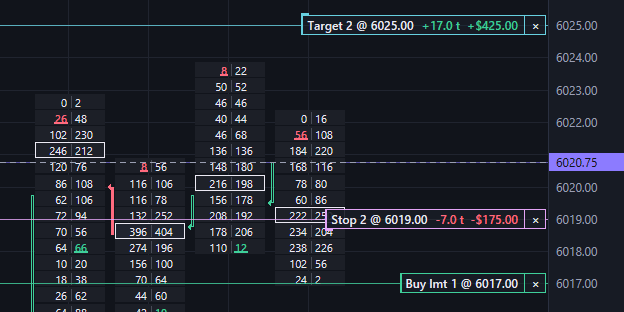
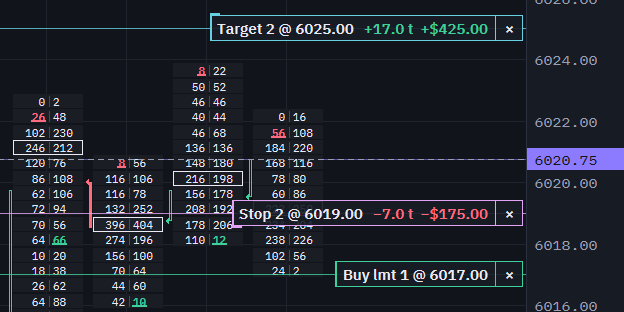
Refresh for v0.3.30: data sources, new features, roadmap, screenshots
- Version-neutral fallbacks: "Download" / "Latest release", download
  cards link to the releases page; the script still fills in the tag
  and per-OS assets
- Data sources: Databento CME futures (your own key), Coinbase and
  Kraken public crypto, the simulated futures feed and replays
- Three cards: drawings and the ruler, your own level sources,
  workspaces and pop-out windows; older stored days load on demand
- Roadmap matches lines ROADMAP.md (Schwab SPY/QQQ, strategies, Sierra
  Chart DTC execution next; CQG dropped for "more brokers")
- New screenshots from v0.3.30 screenshot mode on synthetic data
  (synth_session, paper account, demo levels); OG image from the hero
- Meta description, alt text; code chips wrap on phones

diff --git a/index.html b/index.html
@@ -4,7 +4,7 @@
 <meta charset="utf-8">
 <meta name="viewport" content="width=device-width,initial-scale=1">
 <title>Lines Terminal</title>
-<meta name="description" content="A native futures charting, DOM and trading terminal. Fast, exact, and built for discretionary and prop-firm traders. Pre-alpha, paper trading only.">
+<meta name="description" content="A native futures charting, DOM and paper-trading terminal for discretionary and prop-firm traders. Live CME data with your own Databento key, public crypto feeds and replays. Fast, exact, built in Rust. Pre-alpha, paper trading only.">
 <meta name="theme-color" content="#11141b">
 <meta name="color-scheme" content="dark">
 <link rel="canonical" href="https://linesterminal.com/">
@@ -19,7 +19,7 @@
 <meta property="og:image" content="https://linesterminal.com/assets/og.png">
 <meta property="og:image:width" content="1200">
 <meta property="og:image:height" content="630">
-<meta property="og:image:alt" content="Lines Terminal footprint chart with order lines beside a DOM and time and sales">
+<meta property="og:image:alt" content="Lines Terminal footprint chart with paper order lines beside the DOM and time and sales">
 <meta name="twitter:card" content="summary_large_image">
 <meta name="twitter:title" content="Lines Terminal: the futures terminal that keeps up">
 <meta name="twitter:description" content="Native charts, DOM and order flow for discretionary and prop-firm traders. Built in Rust. Pre-alpha, paper trading only.">
@@ -135,6 +135,7 @@ footer .sp{flex:1}
   .sub{margin-bottom:32px}
   .grid,.dl,.roadmap,.two{grid-template-columns:1fr}
   .two{gap:32px;margin-top:32px}
+  .note .k{white-space:normal;overflow-wrap:anywhere}
   footer{margin-top:96px}
   footer .sp{display:none}
 }
@@ -161,7 +162,7 @@ footer .sp{flex:1}
   <h1>The futures terminal that <em>keeps up</em>.</h1>
   <p class="lede">Native charts, DOM and order flow for discretionary and prop-firm traders. Built in Rust: exact prices, nothing dropped, and nothing between your click and your order.</p>
   <div class="cta">
-   <a class="btn primary" href="#download">Download v0.3.2</a>
+   <a class="btn primary" href="#download">Download</a>
    <a class="btn ghost" href="https://github.com/anaremore/lines">View source</a>
   </div>
   <div class="small">Windows · macOS · Linux · free under FSL-1.1</div>
@@ -170,7 +171,7 @@ footer .sp{flex:1}
     <source media="(max-width: 640px)" type="image/webp" srcset="/assets/hero-mobile.webp" width="624" height="312">
     <source media="(max-width: 640px)" srcset="/assets/hero-mobile.png" width="624" height="312">
     <source type="image/webp" srcset="/assets/hero.webp" width="1600" height="900">
-    <img src="/assets/hero.png" width="1600" height="900" fetchpriority="high" decoding="async" alt="Lines Terminal: footprint chart with a long position, stop and target order lines, beside a DOM and time and sales">
+    <img src="/assets/hero.png" width="1600" height="900" fetchpriority="high" decoding="async" alt="Lines Terminal on synthetic data: a footprint chart with a long paper position, its stop and target order lines and a working buy limit, beside the DOM with its trade panel and time and sales">
    </picture>
   </a>
   <div class="small tap">Tap the image for the full screenshot</div>
@@ -179,7 +180,7 @@ footer .sp{flex:1}
  <section id="features" aria-labelledby="features-h"><div class="wrap">
   <p class="eyebrow">Features</p>
   <h2 id="features-h">Built for the moment you click</h2>
-  <p class="sub">Everything here works today, on mock, replay and live crypto feeds.</p>
+  <p class="sub">Everything here works today in the free public build: live CME futures with your own Databento key, live Coinbase and Kraken crypto, a simulated futures feed and replays.</p>
   <div class="grid">
    <div class="card">
     <svg viewBox="0 0 24 24" fill="none" stroke="currentColor" stroke-width="1.6" stroke-linecap="round" stroke-linejoin="round" aria-hidden="true"><path d="M4 4v16h16"/><path d="M7 15l4-4 3 3 6-7"/><path d="M14 7h6"/></svg>
@@ -189,7 +190,7 @@ footer .sp{flex:1}
     <h3>DOM that holds still</h3><p>A fixed-row ladder with market buttons, brackets, and a price trail. The layout never shifts under your pointer.</p></div>
    <div class="card">
     <svg viewBox="0 0 24 24" fill="none" stroke="currentColor" stroke-width="1.6" stroke-linecap="round" aria-hidden="true"><path d="M6 20v-8"/><path d="M10 20V5"/><path d="M14 20v-6"/><path d="M18 20V9"/></svg>
-    <h3>Order flow</h3><p>Footprint, volume profile, cumulative delta and VWAP, rebuilt from stored trades the moment you open the app.</p></div>
+    <h3>Order flow</h3><p>Footprint, volume profile, cumulative delta and VWAP, rebuilt from stored trades the moment you open the app. Scroll back and older stored days load on demand.</p></div>
    <div class="card">
     <svg viewBox="0 0 24 24" fill="none" stroke="currentColor" stroke-width="1.6" stroke-linecap="round" stroke-linejoin="round" aria-hidden="true"><circle cx="12" cy="12" r="8"/><path d="M12 8v4l3 2"/></svg>
     <h3>Any bar you want</h3><p>Time, tick, volume, range and seconds bars. Type <span class="k">500t</span>, <span class="k">10r</span> or <span class="k">5</span> and press Enter.</p></div>
@@ -199,23 +200,32 @@ footer .sp{flex:1}
    <div class="card">
     <svg viewBox="0 0 24 24" fill="none" stroke="currentColor" stroke-width="1.6" stroke-linecap="round" stroke-linejoin="round" aria-hidden="true"><path d="M6 4h10a3 3 0 0 1 3 3v13H8a2 2 0 0 1-2-2z"/><path d="M6 18a2 2 0 0 1 2-2h11"/><path d="M10 8h5"/></svg>
     <h3>Journal and strategies</h3><p>Every round trip with MAE/MFE and tags. Strategies run on paper through the same rules as your clicks.</p></div>
+   <div class="card">
+    <svg viewBox="0 0 24 24" fill="none" stroke="currentColor" stroke-width="1.6" stroke-linecap="round" stroke-linejoin="round" aria-hidden="true"><path d="M4 20L20 4"/><path d="M4 9h7"/><path d="M14 15h6"/><path d="M15 19l2 2 4-4"/></svg>
+    <h3>Drawings and a ruler</h3><p>Lines, rays, trend lines, zones and notes, saved per product and shared by every chart of it. <span class="k">Shift</span>+drag measures ticks, P&amp;L and time.</p></div>
+   <div class="card">
+    <svg viewBox="0 0 24 24" fill="none" stroke="currentColor" stroke-width="1.6" stroke-linecap="round" aria-hidden="true"><path d="M3 7h12"/><path d="M3 12h18"/><path d="M3 17h8"/><circle cx="17" cy="7" r="2"/><circle cx="13" cy="17" r="2"/></svg>
+    <h3>Your own levels</h3><p>Plug in your own level sources. Lines and zones draw on the chart, can end where price reached them, and are recorded and replayed with the market data.</p></div>
+   <div class="card">
+    <svg viewBox="0 0 24 24" fill="none" stroke="currentColor" stroke-width="1.6" stroke-linejoin="round" aria-hidden="true"><rect x="3" y="4" width="13" height="11" rx="1.5"/><path d="M8 19h11.5a1.5 1.5 0 0 0 1.5-1.5V9"/><path d="M3 8h13"/></svg>
+    <h3>Workspaces and windows</h3><p>Grids, tabs and link groups. Pop any pane out into its own window on another monitor. Everything is saved and restored.</p></div>
   </div>
   <div class="two">
-   <figure><div class="shot"><picture><source type="image/webp" srcset="/assets/tick-chart.webp"><img src="/assets/tick-chart.png" width="1200" height="700" loading="lazy" decoding="async" alt="A 500-tick candlestick chart with VWAP bands"></picture></div><figcaption>Tick charts from counted trades</figcaption></figure>
-   <figure><div class="shot"><picture><source type="image/webp" srcset="/assets/light.webp"><img src="/assets/light.png" width="1600" height="900" loading="lazy" decoding="async" alt="Lines in the light theme: a chart with order lines beside the DOM"></picture></div><figcaption>Light, dark and colorblind palettes, all WCAG AA</figcaption></figure>
+   <figure><div class="shot"><picture><source type="image/webp" srcset="/assets/tick-chart.webp"><img src="/assets/tick-chart.png" width="1200" height="700" loading="lazy" decoding="async" alt="A 500-tick candlestick chart with VWAP bands, synthetic external levels and zones, and a ruler measurement"></picture></div><figcaption>Tick chart with VWAP bands, levels and the ruler</figcaption></figure>
+   <figure><div class="shot"><picture><source type="image/webp" srcset="/assets/light.webp"><img src="/assets/light.png" width="1600" height="900" loading="lazy" decoding="async" alt="Lines in the light theme: a 5-minute chart with a split Volume pane and paper order lines, beside the DOM and the Positions pane"></picture></div><figcaption>Light, dark and colorblind palettes, all WCAG AA</figcaption></figure>
   </div>
  </div></section>
 
  <section id="download" aria-labelledby="download-h"><div class="wrap">
   <p class="eyebrow">Download</p>
   <h2 id="download-h">Get Lines</h2>
-  <p class="sub" id="ver">Latest release: v0.3.2</p>
+  <p class="sub" id="ver">Latest release</p>
   <div class="dl">
-   <a class="os" href="https://github.com/anaremore/lines/releases/download/v0.3.2/lines-v0.3.2-windows-x64.zip"><div><b>Windows</b><span>x64 · .zip</span></div><svg viewBox="0 0 24 24" fill="none" stroke="currentColor" stroke-width="1.6" stroke-linecap="round" stroke-linejoin="round" aria-hidden="true"><path d="M12 4v12"/><path d="M7 11l5 5 5-5"/><path d="M5 20h14"/></svg></a>
-   <a class="os" href="https://github.com/anaremore/lines/releases/download/v0.3.2/lines-v0.3.2-macos-arm64.zip"><div><b>macOS</b><span>Apple silicon · .zip</span></div><svg viewBox="0 0 24 24" fill="none" stroke="currentColor" stroke-width="1.6" stroke-linecap="round" stroke-linejoin="round" aria-hidden="true"><path d="M12 4v12"/><path d="M7 11l5 5 5-5"/><path d="M5 20h14"/></svg></a>
-   <a class="os" href="https://github.com/anaremore/lines/releases/download/v0.3.2/lines-v0.3.2-linux-x64.tar.gz"><div><b>Linux</b><span>x64 · .tar.gz</span></div><svg viewBox="0 0 24 24" fill="none" stroke="currentColor" stroke-width="1.6" stroke-linecap="round" stroke-linejoin="round" aria-hidden="true"><path d="M12 4v12"/><path d="M7 11l5 5 5-5"/><path d="M5 20h14"/></svg></a>
+   <a class="os" href="https://github.com/anaremore/lines/releases/latest"><div><b>Windows</b><span>x64 · .zip</span></div><svg viewBox="0 0 24 24" fill="none" stroke="currentColor" stroke-width="1.6" stroke-linecap="round" stroke-linejoin="round" aria-hidden="true"><path d="M12 4v12"/><path d="M7 11l5 5 5-5"/><path d="M5 20h14"/></svg></a>
+   <a class="os" href="https://github.com/anaremore/lines/releases/latest"><div><b>macOS</b><span>Apple silicon · .zip</span></div><svg viewBox="0 0 24 24" fill="none" stroke="currentColor" stroke-width="1.6" stroke-linecap="round" stroke-linejoin="round" aria-hidden="true"><path d="M12 4v12"/><path d="M7 11l5 5 5-5"/><path d="M5 20h14"/></svg></a>
+   <a class="os" href="https://github.com/anaremore/lines/releases/latest"><div><b>Linux</b><span>x64 · .tar.gz</span></div><svg viewBox="0 0 24 24" fill="none" stroke="currentColor" stroke-width="1.6" stroke-linecap="round" stroke-linejoin="round" aria-hidden="true"><path d="M12 4v12"/><path d="M7 11l5 5 5-5"/><path d="M5 20h14"/></svg></a>
   </div>
-  <div class="note"><div><strong>Pre-alpha. Paper trading only:</strong> no live broker orders yet. Try <span class="k">lines --source mock</span>, or <span class="k">--source coinbase --instrument BTC/USD</span> for live data. Builds aren't code-signed yet, so your OS may ask before the first run.</div></div>
+  <div class="note"><div><strong>Pre-alpha. Paper trading only:</strong> no live broker orders yet. Try <span class="k">lines --source mock</span>, <span class="k">--source coinbase --instrument BTC/USD</span> for live crypto, or <span class="k">--source databento --instrument ES</span> for live CME futures trades and top of book with your own Databento account and API key (billed by Databento). Builds aren't code-signed yet, so your OS may ask before the first run.</div></div>
  </div></section>
 
  <section id="roadmap" aria-labelledby="roadmap-h"><div class="wrap">
@@ -224,9 +234,9 @@ footer .sp{flex:1}
   <p class="sub">One platform, many data sources and brokers, connected through the same safety rules.</p>
   <div class="roadmap">
    <!-- ROADMAP: refresh with each release (see README, "Updating the site") -->
-   <div class="rm"><div class="st done">Shipped</div><ul><li>Charts, DOM, footprint</li><li>Chart and DOM paper trading</li><li>Prop rules, guardrails and journal</li><li>Strategies on paper (strategy panel)</li><li>Economic calendar and news blackout</li></ul></div>
-   <div class="rm"><div class="st now">In progress</div><ul><li>Rithmic connection</li><li>Order sizing and grouped order tags</li><li>SPY/QQQ option chain</li></ul></div>
-   <div class="rm"><div class="st next">Next</div><ul><li>Live order routing (opt-in)</li><li>CQG and more brokers</li></ul></div>
+   <div class="rm"><div class="st done">Shipped</div><ul><li>Charts, DOM, footprint</li><li>Chart and DOM paper trading</li><li>Prop rules, guardrails and journal</li><li>Strategies on paper (strategy panel)</li><li>Economic calendar and news blackout</li><li>Databento CME futures data (your own key)</li><li>Drawings, external levels, pop-out windows</li></ul></div>
+   <div class="rm"><div class="st now">In progress</div><ul><li>Rithmic connection</li><li>SPY/QQQ equities and options via Schwab</li><li>Strategies beyond paper</li></ul></div>
+   <div class="rm"><div class="st next">Next</div><ul><li>Sierra Chart DTC execution (opt-in, Sim first)</li><li>Live order routing (opt-in)</li><li>More brokers</li></ul></div>
   </div>
  </div></section>
 </main>

diff --git a/README.md b/README.md
@@ -42,5 +42,5 @@ Error responses are sent with `Cache-Control: no-store` (see `Caddyfile`), so a 
 With each `lines` release:
 
 - **Roadmap:** refresh the block marked `<!-- ROADMAP -->` in `index.html` (Shipped / In progress / Next) to match the release notes.
-- **Version:** the page script fills in the newest release's version and download links from the GitHub API, but update the `vX.Y.Z` fallbacks in `index.html` (hero button, "Latest release", the three download links) so the page is right without JS.
-- **Screenshots:** if the UI changed noticeably, replace the PNGs in `assets/` and regenerate the `.webp` copies and `og.png`.
+- **Version:** nothing to change. The page script fills in the newest release's version and download links from the GitHub API; without JS the page says "Download" / "Latest release" and links to the releases page (`/releases/latest`, which GitHub redirects to the list while every release is a pre-release).
+- **Screenshots:** if the UI changed noticeably, replace the PNGs in `assets/` and regenerate the `.webp` copies and `og.png`. Synthetic data only (decision 0010 in `lines`): the recipe is in `lines` `docs/architecture.md` ("README images"); this site's `hero-mobile` is a 624x312 crop of the hero rendered with `--ui-zoom 125`, and `og.png` is the hero scaled to 1200 wide and cropped to 630 tall.
